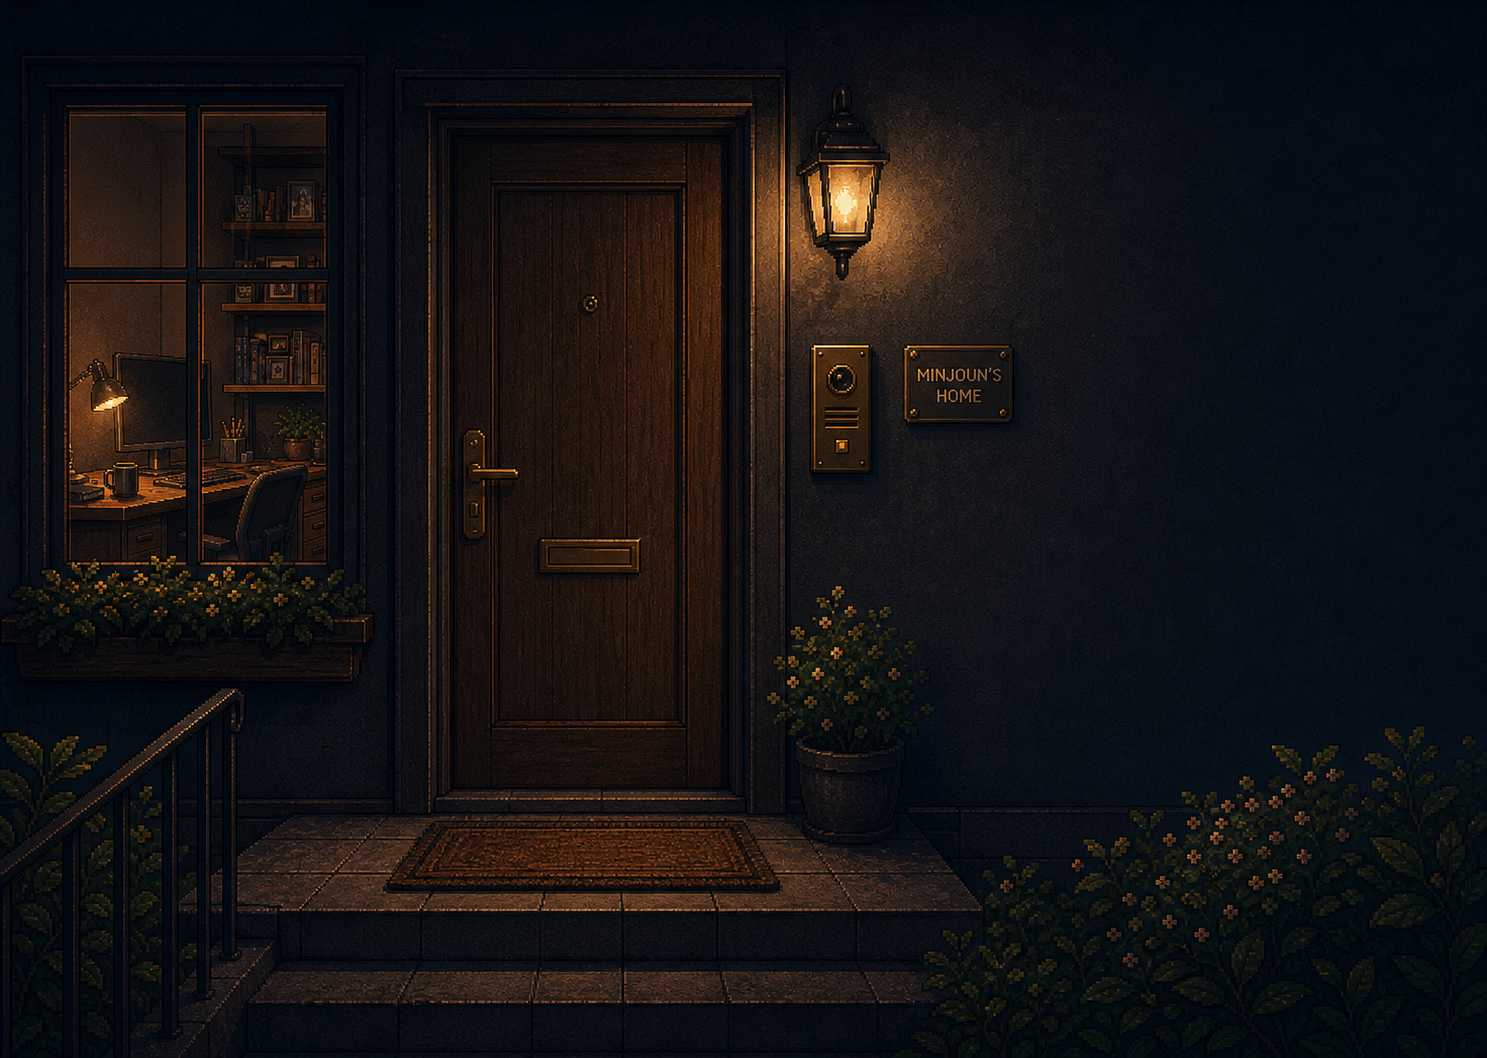
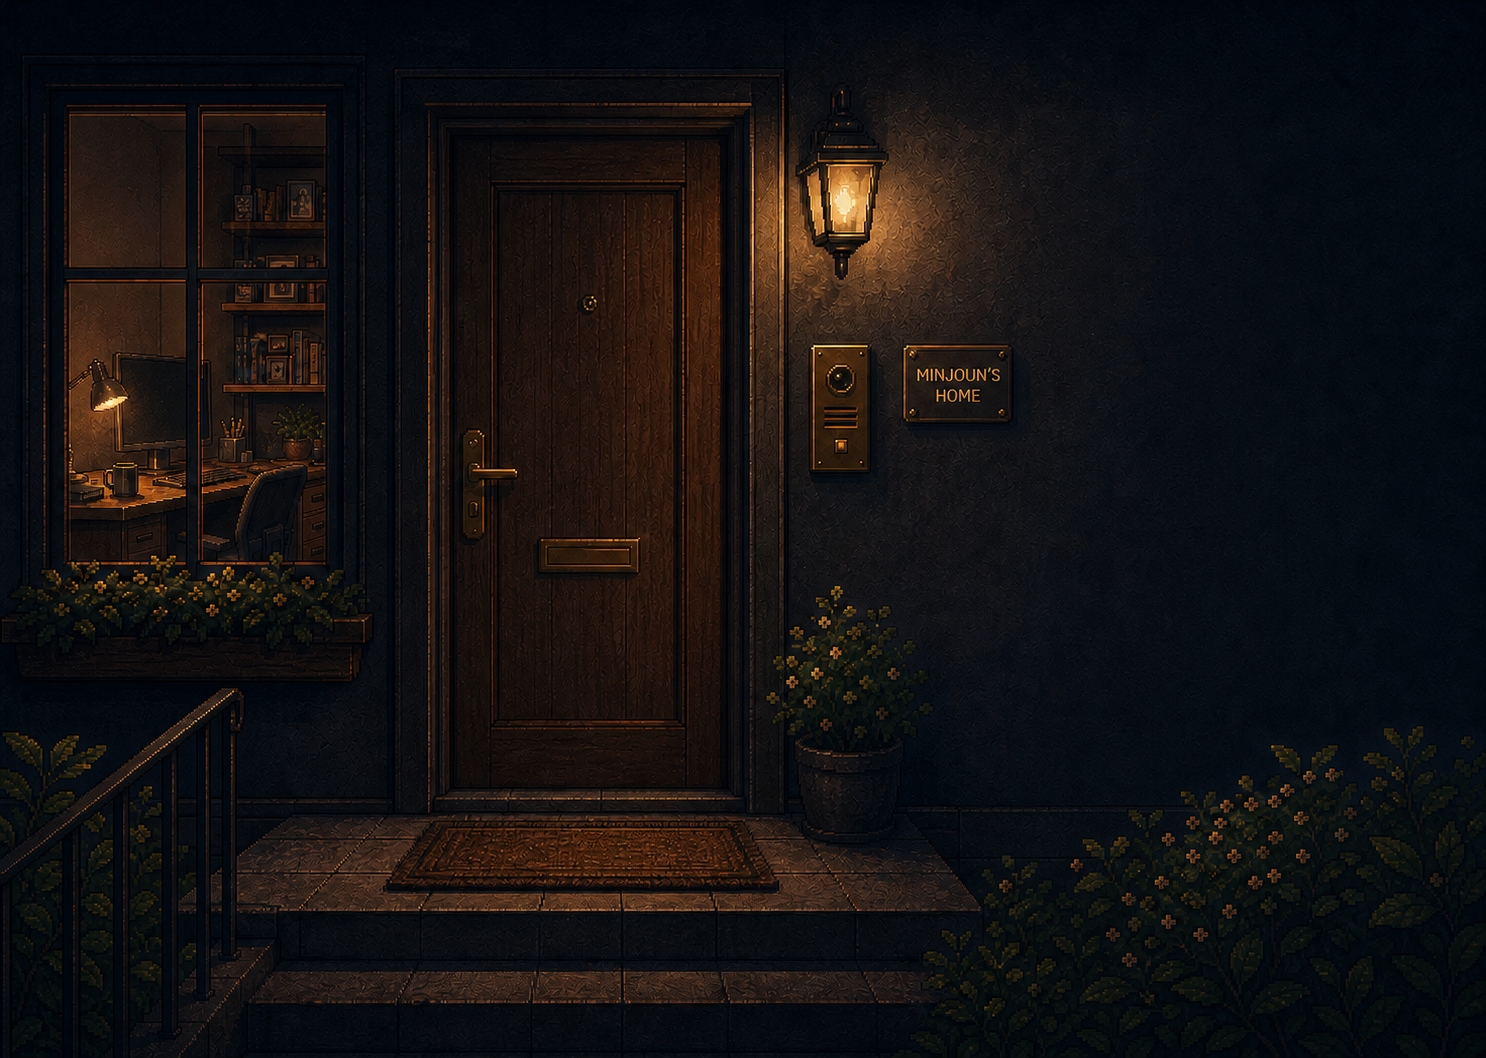
feat(portfolio): refine interactive world flow

diff --git a/tests/smoke.spec.ts b/tests/smoke.spec.ts
@@ -21,8 +21,8 @@ test("home is a navigable room that opens into the project street", async ({ pag
   await expect(page.getByRole("heading", { name: "직접 쓰는 기술." })).toBeVisible();
 
   await page.getByRole("button", { name: "프로젝트 둘러보기" }).click();
-  await expect(page.getByTitle("MINJOUN ST. 프로젝트 거리")).toBeVisible();
-  const street = page.frameLocator('iframe[title="MINJOUN ST. 프로젝트 거리"]');
+  await expect(page.getByTitle("MINJOON ST. 프로젝트 거리")).toBeVisible();
+  const street = page.frameLocator('iframe[title="MINJOON ST. 프로젝트 거리"]');
   await expect(street.locator(".street-entry-cue")).toHaveText("입장 →");
   await expect(page.getByRole("link", { name: "Hola Climbing" })).toHaveAttribute(
     "href",
@@ -35,7 +35,7 @@ test("last project street leads back to the home doorbell", async ({ page }) => 
   await page.goto("/");
   await page.getByRole("button", { name: "프로젝트 둘러보기" }).click();
 
-  const street = page.frameLocator('iframe[title="MINJOUN ST. 프로젝트 거리"]');
+  const street = page.frameLocator('iframe[title="MINJOON ST. 프로젝트 거리"]');
   await street.locator("#stage").evaluate(() => (window as unknown as { __dot: { jump: (index: number) => void } }).__dot.jump(4));
   await street.locator("#stage").press("ArrowRight");
 
@@ -63,7 +63,7 @@ test("store detail uses readable project content over the interior concept", asy
 test("street return route restores the project position", async ({ page }) => {
   await page.goto("/?scene=street&shop=readandshare");
 
-  const street = page.frameLocator('iframe[title="MINJOUN ST. 프로젝트 거리"]');
+  const street = page.frameLocator('iframe[title="MINJOON ST. 프로젝트 거리"]');
   await expect(street.locator("#ix")).toHaveText("04 / 05");
   await expect(street.locator(".street-scene")).toHaveCount(5);
   await expect(street.locator(".street-scene.is-active img")).toHaveAttribute(
@@ -76,31 +76,39 @@ test("street return route restores the project position", async ({ page }) => {
 test("world keeps direction when returning from the contact house and a project store", async ({ page }) => {
   await page.goto("/?scene=street&shop=jsonstore");
 
-  let street = page.frameLocator('iframe[title="MINJOUN ST. 프로젝트 거리"]');
+  let street = page.frameLocator('iframe[title="MINJOON ST. 프로젝트 거리"]');
   await expect(street.locator("#ix")).toHaveText("05 / 05");
   await street.locator("#stage").press("ArrowRight");
   await expect(page.getByRole("heading", { name: "연락하기." })).toBeVisible();
 
+  await page.getByRole("button", { name: "문 안으로 들어가 작업실로 돌아가기" }).click();
+  await expect(page).toHaveURL("/");
+  await expect(page.getByRole("heading", { name: "AI를 서비스로." })).toBeVisible();
+
+  await page.goto("/?scene=street&shop=jsonstore");
+  street = page.frameLocator('iframe[title="MINJOON ST. 프로젝트 거리"]');
+  await street.locator("#stage").press("ArrowRight");
+  await expect(page.getByRole("heading", { name: "연락하기." })).toBeVisible();
   await page.getByRole("button", { name: "거리로 돌아가기" }).click();
-  street = page.frameLocator('iframe[title="MINJOUN ST. 프로젝트 거리"]');
+  street = page.frameLocator('iframe[title="MINJOON ST. 프로젝트 거리"]');
   await expect(street.locator("#ix")).toHaveText("05 / 05");
 
   await page.goto("/?scene=street&shop=readandshare");
-  street = page.frameLocator('iframe[title="MINJOUN ST. 프로젝트 거리"]');
+  street = page.frameLocator('iframe[title="MINJOON ST. 프로젝트 거리"]');
   await expect(street.locator("#ix")).toHaveText("04 / 05");
   await street.locator("#store-entry").click();
   await expect(page).toHaveURL("/projects/readandshare/?from=street");
 
   await page.getByRole("link", { name: "거리로 돌아가기" }).click();
   await expect(page).toHaveURL("/?scene=street&shop=readandshare");
-  street = page.frameLocator('iframe[title="MINJOUN ST. 프로젝트 거리"]');
+  street = page.frameLocator('iframe[title="MINJOON ST. 프로젝트 거리"]');
   await expect(street.locator("#ix")).toHaveText("04 / 05");
 });
 
 test("the first storefront returns naturally to the room", async ({ page }) => {
   await page.goto("/?scene=street&shop=hola-climbing");
 
-  const street = page.frameLocator('iframe[title="MINJOUN ST. 프로젝트 거리"]');
+  const street = page.frameLocator('iframe[title="MINJOON ST. 프로젝트 거리"]');
   await expect(street.locator("#ix")).toHaveText("01 / 05");
   await street.locator("#stage").press("ArrowLeft");
   await expect(page.getByRole("heading", { name: "AI를 서비스로." })).toBeVisible();
@@ -109,7 +117,7 @@ test("the first storefront returns naturally to the room", async ({ page }) => {
 test("vertical scrolling never sends the first storefront back to the room", async ({ page }) => {
   await page.goto("/?scene=street&shop=hola-climbing");
 
-  const street = page.frameLocator('iframe[title="MINJOUN ST. 프로젝트 거리"]');
+  const street = page.frameLocator('iframe[title="MINJOON ST. 프로젝트 거리"]');
   await street.locator("#stage").evaluate((element) => {
     element.dispatchEvent(new WheelEvent("wheel", { bubbles: true, cancelable: true, deltaY: -120 }));
   });

diff --git a/src/components/portfolio/StreetHome.tsx b/src/components/portfolio/StreetHome.tsx
@@ -78,6 +78,11 @@ export function StreetHome({ profile, projects }: StreetHomeProps) {
 
   const enterStreet = () => transitionToScene("street");
   const enterContact = () => transitionToScene("contact");
+  const returnRoom = () => {
+    window.history.replaceState(window.history.state, "", "/");
+    setRoomFocus("intro");
+    transitionToScene("room");
+  };
 
   useEffect(() => {
     const params = new URLSearchParams(window.location.search);
@@ -106,7 +111,7 @@ export function StreetHome({ profile, projects }: StreetHomeProps) {
       }
 
       if (event.data.type === "minjoun-street:leave") enterContact();
-      if (event.data.type === "minjoun-street:return") transitionToScene("room");
+      if (event.data.type === "minjoun-street:return") returnRoom();
     };
 
     window.addEventListener("message", onMessage);
@@ -216,12 +221,12 @@ export function StreetHome({ profile, projects }: StreetHomeProps) {
       )}
 
       {scene === "street" && (
-        <section className="world-street" aria-label="MINJOUN ST. 프로젝트 거리">
+        <section className="world-street" aria-label="MINJOON ST. 프로젝트 거리">
           <iframe
             ref={streetFrame}
             className="world-street-frame"
             src={`/minjoun-street.html?world=1${streetShop ? `&shop=${encodeURIComponent(streetShop)}` : ""}`}
-            title="MINJOUN ST. 프로젝트 거리"
+            title="MINJOON ST. 프로젝트 거리"
             tabIndex={0}
           />
           <nav className="world-sr-only" aria-label="프로젝트 바로가기">
@@ -234,6 +239,12 @@ export function StreetHome({ profile, projects }: StreetHomeProps) {
       {scene === "contact" && (
         <section className="world-contact" aria-label="김민준의 집 앞">
           <div className="world-contact-art" style={{ backgroundImage: `url(${doorbellWorld})` }} aria-hidden="true" />
+          <button
+            className="world-hotspot world-hotspot--return-door"
+            type="button"
+            aria-label="문 안으로 들어가 작업실로 돌아가기"
+            onClick={returnRoom}
+          />
           <div className="world-contact-copy">
             <p>DOORBELL / CONTACT</p>
             <h2>연락하기.</h2>
@@ -242,7 +253,7 @@ export function StreetHome({ profile, projects }: StreetHomeProps) {
             <a href={profile.github} target="_blank" rel="noreferrer">GITHUB ↗</a>
             <button type="button" onClick={() => transitionToScene("street", projectStreetOrder[projectStreetOrder.length - 1])}>거리로 돌아가기</button>
           </div>
-          <p className="world-contact-hint">← 또는 Esc로 거리로 돌아가기</p>
+          <p className="world-contact-hint">문 안으로 → 작업실 · ← / Esc → 거리</p>
         </section>
       )}
     </div>

diff --git a/src/styles/street.css b/src/styles/street.css
@@ -1140,6 +1140,7 @@ body:has(.portfolio-world) #main {
 .world-hotspot--desk { left: 0; bottom: 0; width: 47%; height: 44%; }
 .world-hotspot--shelf { left: 50%; top: 0; width: 28%; height: 89%; }
 .world-hotspot--door { right: 0; top: 0; width: 30%; height: 100%; }
+.world-hotspot--return-door { left: 26%; top: 0; width: 27%; height: 91%; }
 
 .world-hotspot:hover { box-shadow: none; }
 .world-hotspot:focus-visible {
@@ -1179,7 +1180,7 @@ body:has(.portfolio-world) #main {
 .world-contact-copy h2 {
   margin: 8px 0 0;
   color: #f5f1df;
-  font-size: clamp(24px, 3vw, 43px);
+  font-size: clamp(19px, 2.2vw, 32px);
   font-weight: 900;
   letter-spacing: -.07em;
   line-height: .98;
@@ -1265,7 +1266,7 @@ body:has(.portfolio-world) #main {
 
 .world-contact-copy {
   position: absolute;
-  z-index: 2;
+  z-index: 4;
   top: 18%;
   right: 7%;
   display: flex;
@@ -1278,7 +1279,7 @@ body:has(.portfolio-world) #main {
 }
 
 .world-contact-copy h2 {
-  font-size: clamp(34px, 3.4vw, 48px);
+  font-size: clamp(25px, 2.5vw, 36px);
   line-height: 1.03;
 }
 .world-contact-copy a {
@@ -1327,6 +1328,7 @@ body:has(.portfolio-world) #main {
   .world-hotspot--desk { left: 0; bottom: 0; width: 47%; height: 46%; }
   .world-hotspot--shelf { left: 39%; top: 0; width: 31%; height: 91%; }
   .world-hotspot--door { right: 0; top: 0; width: 32%; height: 100%; }
+  .world-hotspot--return-door { left: 8%; top: 0; width: 74%; height: 86%; }
 
   .world-street-hud { display: none; }
   .world-contact-art { background-size: auto 100%; background-position: 38% center; }
@@ -1350,6 +1352,7 @@ body:has(.portfolio-world) #main {
   .world-hotspot--desk { left: 0; bottom: 0; width: 43%; height: 53%; }
   .world-hotspot--shelf { left: 50%; top: 3%; width: 28%; height: 86%; }
   .world-hotspot--door { right: 0; top: 8%; width: 23%; height: 75%; }
+  .world-hotspot--return-door { left: 27%; top: 7%; width: 24%; height: 78%; }
 }
 
 @media (prefers-reduced-motion: reduce) {

diff --git a/public/minjoun-street.html b/public/minjoun-street.html
@@ -3,7 +3,7 @@
 <head>
   <meta charset="UTF-8">
   <meta name="viewport" content="width=device-width, initial-scale=1.0">
-  <title>MINJOUN ST.</title>
+  <title>MINJOON ST.</title>
   <style>
     :root {
       color: #f3ead7;
@@ -241,7 +241,7 @@
   </style>
 </head>
 <body>
-  <main id="stage" tabindex="0" aria-label="MINJOUN ST. 프로젝트 거리">
+  <main id="stage" tabindex="0" aria-label="MINJOON ST. 프로젝트 거리">
     <div class="street-scenes" aria-hidden="true">
       <figure class="street-scene"><img src="/assets/street/hola-climbing-district.png" alt="" fetchpriority="high"></figure>
       <figure class="street-scene"><img src="/assets/street/cafe-gamsugwang-district.png" alt="" loading="eager"></figure>
@@ -252,7 +252,7 @@
     <div class="street-shade" aria-hidden="true"></div>
 
     <header class="street-topline" aria-hidden="true">
-      <span>MINJOUN ST.</span>
+      <span>MINJOON ST.</span>
       <span id="ix">01 / 05</span>
     </header>
 

diff --git a/src/components/portfolio/ProjectDetail.tsx b/src/components/portfolio/ProjectDetail.tsx
@@ -70,7 +70,7 @@ export function ProjectDetail({ project }: ProjectDetailProps) {
       <div className="store-detail-scrim" aria-hidden="true" />
       <div className="store-shell">
         <nav className="store-topbar" aria-label="포트폴리오 탐색">
-          <a className="store-brand" href="/">MINJOUN ST.</a>
+          <a className="store-brand" href="/">MINJOON ST.</a>
           <span aria-hidden="true">/</span>
           <span>{project.name.toUpperCase()} STORE</span>
           <a className="store-back-link" href={`/?scene=street&shop=${project.slug}`}>거리로 돌아가기</a>

diff --git a/src/data/projects.ts b/src/data/projects.ts
@@ -221,7 +221,7 @@ export const holaClimbingProject: PortfolioProject = {
       title: "Backend/AI Architecture",
       src: "/assets/projects/hola-climbing/architecture.png",
       caption: "`GCS direct upload`, Cloud Run Spring backend, Redis Streams, AI worker, PostgreSQL/pgvector, 외부 OAuth/SMTP/FCM 흐름",
-      highlight: "**Minjoun 담당**: Spring backend, Redis dispatch, AI worker pipeline",
+      highlight: "**Minjoon 담당**: Spring backend, Redis dispatch, AI worker pipeline",
     },
     {
       kind: "erd",

diff --git a/design-qa.md b/design-qa.md
@@ -2,8 +2,8 @@
 
 ## Comparison Target
 
-- Source visual truth (room): `public/assets/home/minjoun-home-world.png`, `1487 × 1058` px.
-- Source visual truth (contact): `public/assets/home/minjoun-home-doorbell.png`, `1487 × 1058` px.
+- Source visual truth (room): `public/assets/home/minjoun-home-world.png`, `1486 × 1058` px.
+- Source visual truth (contact): `public/assets/home/minjoun-home-doorbell.png`, `1486 × 1058` px.
 - Implementation: `http://127.0.0.1:4321/`, browser-rendered at `1280 × 720` CSS px, density `1`.
 - States compared: initial room, project street, project entry, and the home-doorbell ending.
 - Full-view evidence: each source image and its same-state implementation were rendered together in one temporary local comparison page at the same browser capture scale. The temporary comparison routes were removed after review.
@@ -30,7 +30,7 @@
 - **Fonts and typography:** cream high-weight Korean display type and small monospace scene labels preserve the reference's hierarchy. Contact links remain readable, keyboard-focusable HTML rather than baked raster text.
 - **Spacing and layout rhythm:** the room, street, and contact views are one `100svh` scene each. There are no stacked portfolio sections or vertical-page transitions.
 - **Colors and visual tokens:** deep charcoal/navy, warm lamp amber, cream type, and restrained mint skill labels match the generated scene palette. No new gradients or simulated artwork were used.
-- **Image quality and asset fidelity:** the generated `1487 × 1058` room/contact scenes and five `1536 × 1024` project-district PNGs are used directly as full-bleed backgrounds. No CSS/SVG approximation replaces visible scene artwork.
+- **Image quality and asset fidelity:** the generated `1486 × 1058` room/contact scenes and five `1536 × 1024` project-district PNGs are used directly as full-bleed backgrounds. No CSS/SVG approximation replaces visible scene artwork.
 - **Copy and content:** copy is intentionally short and contextual: desk introduction, bookshelf skills, door CTA, then contact at the doorbell. Project evidence stays on each project-store detail route.
 
 ## Interaction and Browser Verification
@@ -96,5 +96,19 @@
 - Flow check: room → street, fifth district → contact, and contact → fifth district all completed with the expected location restored. The direct CLI E2E run could not launch the sandboxed browser process (`MachPortRendezvousServer` permission denied), so it is not counted as a product-test failure.
 
 final result: passed
+
+## 2026-07-23 Brand Spelling Correction
+
+- Corrected all user-visible `MINJOUN` / `Minjoun` branding to `MINJOON` / `Minjoon`: street title and heading, project-store brand, accessible labels, favicon label, project highlight, and smoke-test selectors.
+- Edited the room doorway sign to `MINJOON ST.` and the contact-house brass nameplate to `MINJOON'S HOME`, preserving the original scene composition and lighting.
+
+final result: passed
+
+## 2026-07-23 Return Through the Door
+
+- The contact-house door is now a bounded, invisible interaction target over the visible doorway. Selecting it returns through the existing cinematic transition to the first room state and normalizes the URL to `/`.
+- The contact card is layered above the doorway target so its email, phone, GitHub, and `거리로 돌아가기` controls remain independently usable at desktop and mobile widths.
+- The backward path is intentionally unchanged: `거리로 돌아가기`, `←`, and `Esc` return to the fifth storefront. The ending now has two clear directions rather than a forced reset.
+- Regression coverage: the desktop and mobile E2E flow verifies fifth storefront → contact → front door → first room, plus the existing contact → fifth storefront and project detail → same storefront routes.
 
 final result: passed
